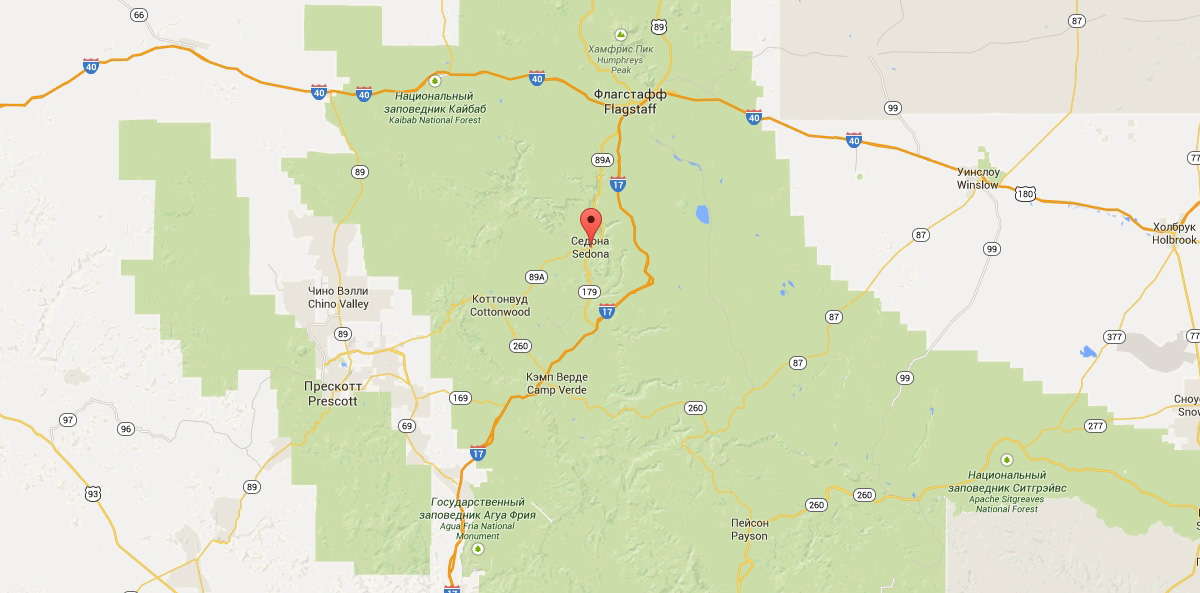
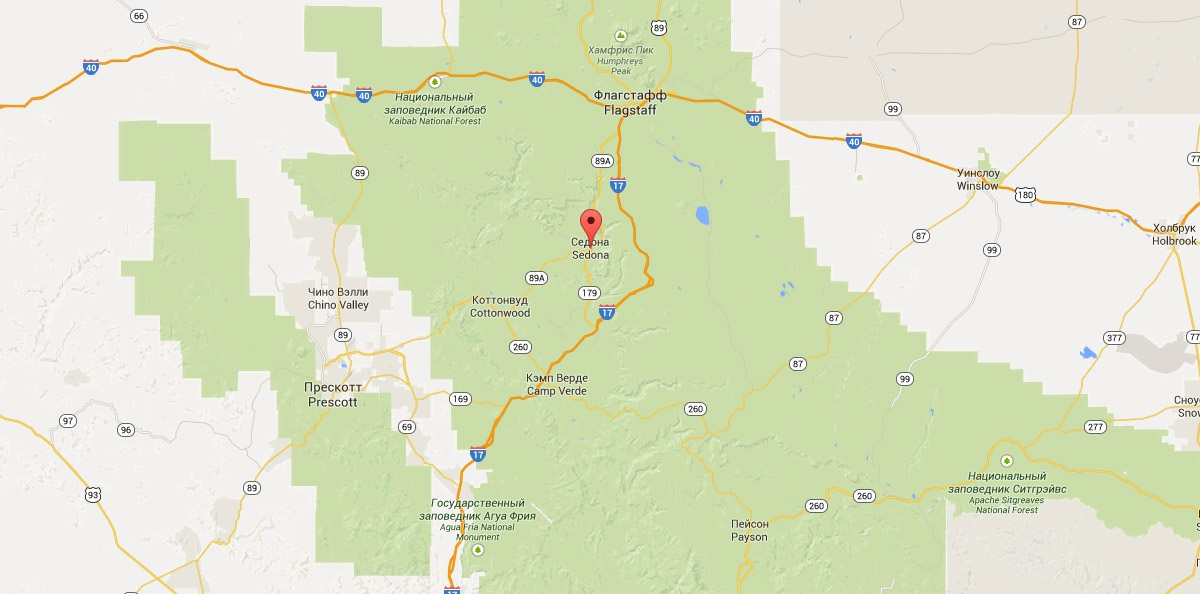
Оформление кнопок

diff --git a/index.html b/index.html
@@ -134,13 +134,13 @@
 
 	</section>
 
-	<section class="map container">
 
-		<!-- <iframe src="https://www.google.com/maps/embed?pb=!1m14!1m12!1m3!1d18517.36905250923!2d-111.75803863400122!3d34.870313320086936!2m3!1f0!2f0!3f0!3m2!1i1024!2i768!4f13.1!5e0!3m2!1sru!2sru!4v1510496117695" width="1200" height="475" frameborder="0" style="border:0" allowfullscreen></iframe> -->
-	</section>
 
-	<footer class="bot-section container clearfix">
+	<footer class="container">
 
+			<section class="map container">
+			<!-- <iframe src="https://www.google.com/maps/embed?pb=!1m14!1m12!1m3!1d18517.36905250923!2d-111.75803863400122!3d34.870313320086936!2m3!1f0!2f0!3f0!3m2!1i1024!2i768!4f13.1!5e0!3m2!1sru!2sru!4v1510496117695" width="1200" height="475" frameborder="0" style="border:0" allowfullscreen></iframe> -->
+			<section class="bot-section">
 				<p class="bot-section-hashtag">#visitsedona</p>
 				
 				<div class="social-flex">
@@ -148,7 +148,12 @@
 				<a href="#" class="social"><img src="img/facebook.svg"></a>
 				<a href="#" class="social"><img src="img/youtube.svg"></a>
 				</div>
-				<a href="https://up.htmlacademy.ru/htmlcss/19"><img src="img/logoaccademy.png" width="197" height="41" alt="лого аккадемии" class="html academy"></a>
+				<a href="//htmlacademy.ru/intensive/htmlcss"><img src="img/logoaccademy.png" width="197" height="41" alt="лого аккадемии" class="html academy"></a>
+				</section>
+
+			</section>
+
+			
 
 	</footer>
 </body>

diff --git a/css/style.css b/css/style.css
@@ -285,12 +285,9 @@ h3 {
 
 .map {
 	background-image: url(../img/map.jpg);
-	height: 475px;
-}
-
-.bot-section {
-	background-color: rgba(255, 255, 255, .9);
-	height: 120px;
+	height: 594px;
+	display: flex;
+	flex-direction: column;
 }
 
 /*Стилизуем футтер*/
@@ -300,6 +297,10 @@ h3 {
 	flex-direction: row;
 	justify-content: space-around;
 	align-items: center;
+	background-color: rgba(255, 255, 255, .9);
+	height: 120px;
+	margin-top: auto;
+
 }
 
 .bot-section-hashtag {
@@ -326,4 +327,13 @@ h3 {
 .social:nth-child(2) {
 	margin: 0 6px 0 6px;
 	line-height: 3.5;
+}
+
+.social:hover {
+	background-color: #669ec0;
+}
+
+.social:active {
+	background-color: #5496bd;
+	
 }
